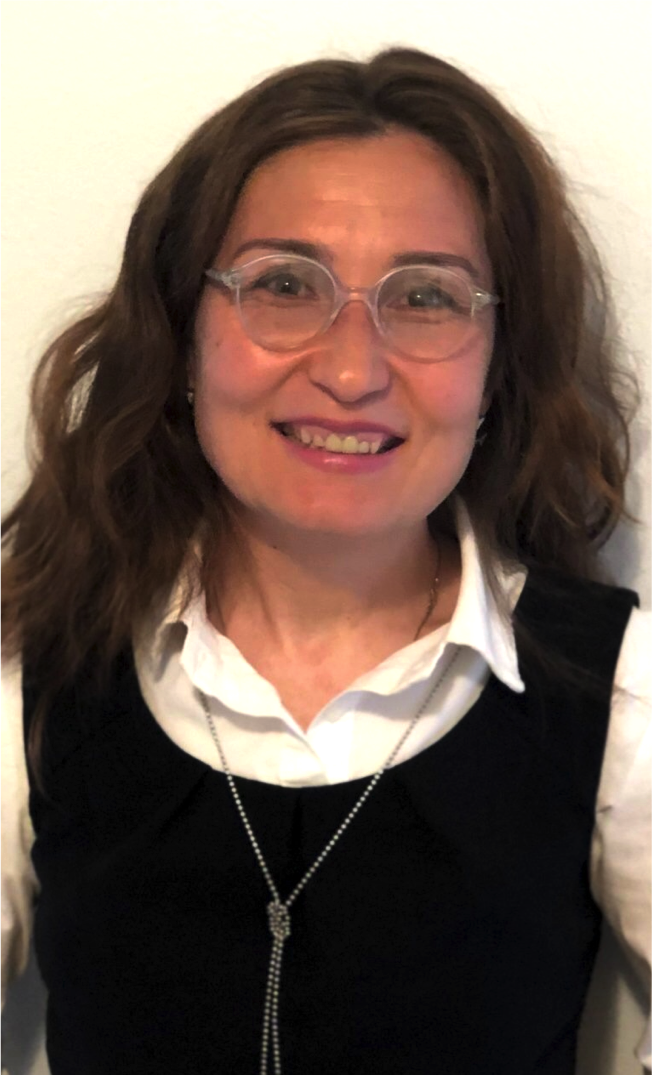
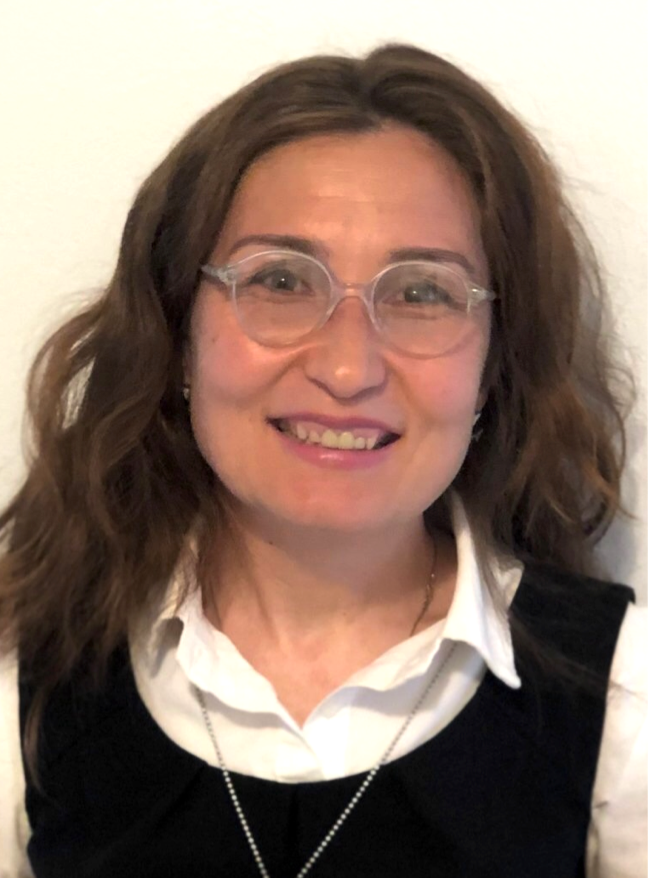
photo update

diff --git a/docs/index.md b/docs/index.md
@@ -1,10 +1,10 @@
 <img src="img/P_lowres1.png" width=300px; style="float: left;margin-right: 10px"/>
 
-I am an experienced Financial Analyst with a passion for research, performance analysis, and risk management. With over 15 years of professional experience in finance, including roles in alternative investments, accounting, and academics, I bring a wealth of knowledge and expertise. I hold a Master's degree in Finance from the University of Lausanne, HEC, and Master's degrees in Economics from University Pompeu Fabra and Central European University.
+I am an experienced Financial Analyst with a passion for research, performance analysis, and risk management. With over 15 years of professional experience in finance, including roles in alternative investments, accounting, and academics, I bring a wealth of knowledge and expertise in the financial industry. I hold a Master's degree in Finance from the University of Lausanne, HEC, and Master's degrees in Economics from University Pompeu Fabra and Central European University.
 
 <!-- *You may download [my CV](webdocs/CV.pdf)*. -->
 
-In my previous roles, such as Acting Associate at BCI Investment Management and Head of Research at Insch Capital Management SA, I gained extensive knowledge of investment procedures, performance reporting, risk management, and client service. I also have experience in teaching and research assistantship in academia, where I taught courses on portfolio management and risk management.
+In my previous roles, such as Acting Associate at BCI Investment Management and Head of Research at Insch Capital Management SA, I gained extensive knowledge of investment procedures, performance reporting, risk management, and client service. I also have experience in teaching and research assistantship in academia, where I taught and assisted courses on financial mathematics, portfolio management, and risk management.
 
 Currently, I am volunteering at the CFA Society Victoria for the Financial Literacy Project, providing financial advice to underserved demographics. Overall, my experience and skills make me well-equipped to excel in the field of financial analysis, and I am excited to use my expertise and expand my knowledge in new and challenging roles.
 
